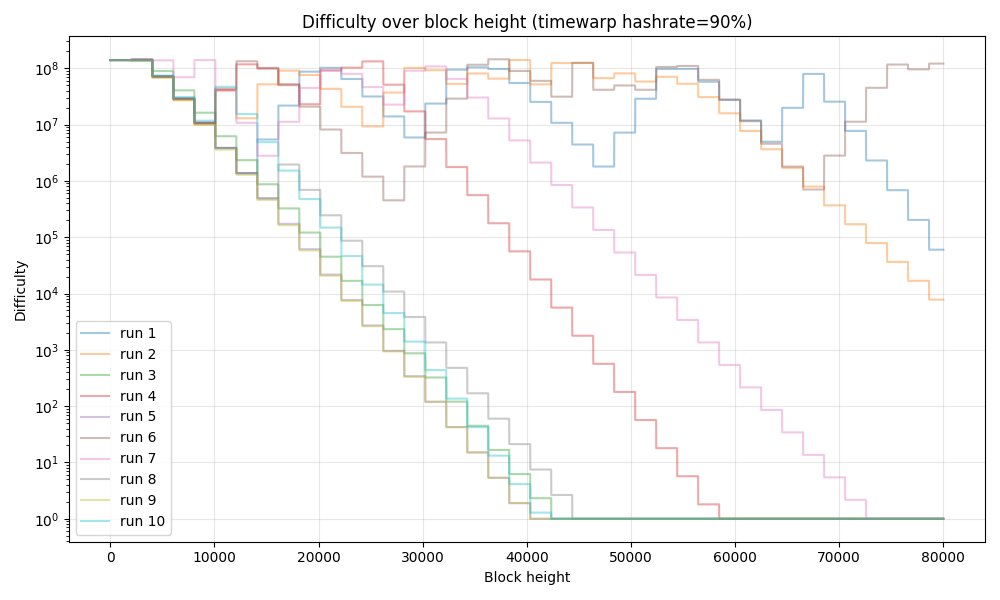
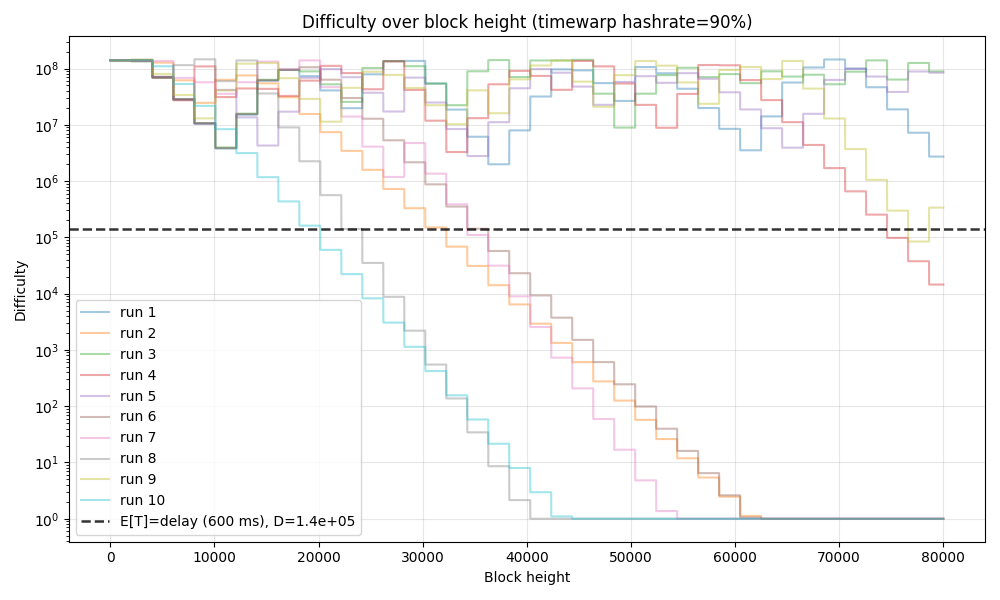
update results

diff --git a/experiments/timewarp_attack_scenarios/scripts/plot_timewarp_scenarios.py b/experiments/timewarp_attack_scenarios/scripts/plot_timewarp_scenarios.py
@@ -10,6 +10,15 @@ import matplotlib.pyplot as plt
 import numpy as np
 import pandas as pd
 
+DEFAULT_NETWORK_DELAY_MS = 600
+DEFAULT_SCENARIO_FILES = [
+    "honest.csv",
+    "selfish_timewarp.csv",
+    "timewarp85.csv",
+    "timewarp90.csv",
+    "timewarp100.csv",
+]
+
 
 def parse_inputs(
     raw_inputs: Iterable[str] | None, base_dir: Path
@@ -21,20 +30,9 @@ def parse_inputs(
     if not raw_inputs:
         results_dir = base_dir / "results"
         profiles_dir = base_dir / "profiles"
-        default_files = [
-            "honest.csv",
-            "selfish_timewarp.csv",
-            # "timewarp50.csv",
-            # "timewarp60.csv",
-            # "timewarp70.csv",
-            # "timewarp80.csv",
-            "timewarp85.csv",
-            "timewarp90.csv",
-            # "timewarp95.csv",
-            "timewarp100.csv",
-        ]
         parsed_defaults: List[Tuple[str, Path]] = []
-        for filename in default_files:
+        # run_timewarp_scenarios.py の run_full() で生成する系列と順序を揃える。
+        for filename in DEFAULT_SCENARIO_FILES:
             csv_path = results_dir / filename
             profile_path = profiles_dir / f"{Path(filename).stem}.json"
             label = _label_from_profile(profile_path, fallback_label=Path(filename).stem)
@@ -125,6 +123,33 @@ def load_series(label: str, csv_path: Path) -> Tuple[pd.Series, pd.Series, pd.Se
         df["mining_time"].rolling(window=1000, min_periods=1).mean() / 60000.0
     )
     return df["round"], df["difficulty"], mining_time_avg_min
+
+
+def _load_total_hashrate(profile_path: Path) -> float | None:
+    if not profile_path.exists():
+        return None
+    try:
+        with profile_path.open("r", encoding="utf-8") as f:
+            profile = json.load(f)
+    except Exception:
+        return None
+    nodes = profile.get("nodes")
+    if not isinstance(nodes, list):
+        return None
+    total = 0.0
+    for node in nodes:
+        if not isinstance(node, dict):
+            continue
+        hashrate = node.get("hashrate")
+        if isinstance(hashrate, (int, float)):
+            total += float(hashrate)
+    return total if total > 0 else None
+
+
+def _target_difficulty_for_delay(delay_ms: int, total_hashrate: float) -> float:
+    # Bitcoin model: E[mining_time] = difficulty * 2^32 / hashrate
+    # E[mining_time] = delay_ms を満たす difficulty。
+    return delay_ms * total_hashrate / (2**32)
 
 
 def _fit_trendline(
@@ -238,6 +263,8 @@ def _find_descending_step_segments(
 
 def plot_difficulty(
     datasets: Iterable[Tuple[str, Path]],
+    profiles_dir: Path,
+    delay_ms: int,
     output_path: Path | None,
     show: bool,
     log_y: bool,
@@ -250,6 +277,7 @@ def plot_difficulty(
     min_descending_steps: int,
     epoch_len: int,
 ) -> None:
+    datasets = list(datasets)
     fig, ax = plt.subplots(figsize=(10, 6))
     ax2 = ax.twinx() if show_mining_time else None
 
@@ -258,11 +286,29 @@ def plot_difficulty(
         .by_key()
         .get("color", ["C0"])
     )
+    # 先頭系列に依存せず、読める profile が1つでもあれば基準線を描く。
+    threshold_drawn = False
+    for _label, csv_path in datasets:
+        profile_path = profiles_dir / f"{csv_path.stem}.json"
+        total_hashrate = _load_total_hashrate(profile_path)
+        if total_hashrate is not None:
+            target_difficulty = _target_difficulty_for_delay(delay_ms, total_hashrate)
+            ax.axhline(
+                target_difficulty,
+                linestyle="--",
+                linewidth=1.8,
+                color="black",
+                alpha=0.8,
+                label=f"E[T]=delay ({delay_ms} ms), D={target_difficulty:.3g}",
+            )
+            threshold_drawn = True
+            break
 
     for label, csv_path in datasets:
         x, difficulty, mining_time = load_series(label, csv_path)
         color = next(colors)
         ax.plot(x, difficulty, label=label, color=color)
+
         if show_regression:
             use_log = regression_log_y if regression_log_y is not None else log_y
             if regression_mode == "global":
@@ -343,6 +389,8 @@ def plot_difficulty(
                 linestyle="--",
                 alpha=0.35,
             )
+    if not threshold_drawn:
+        print("[warn] 基準線用の profile を読めなかったため、E[T]=delay 線は描画されませんでした。")
 
     ax.set_xlabel("Block height")
     ax.set_ylabel("Difficulty")
@@ -389,6 +437,12 @@ def build_parser() -> argparse.ArgumentParser:
         "--show",
         action="store_true",
         help="プロットを画面表示する場合に指定します。",
+    )
+    parser.add_argument(
+        "--delay",
+        type=int,
+        default=DEFAULT_NETWORK_DELAY_MS,
+        help="ネットワーク遅延 [ms]。E[T]=delay となる難易度の基準線描画に使用（デフォルト: 600）。",
     )
     parser.add_argument(
         "--log-y",
@@ -466,6 +520,8 @@ def main() -> None:
 
     plot_difficulty(
         datasets,
+        profiles_dir=base_dir / "profiles",
+        delay_ms=args.delay,
         output_path=output_path,
         show=args.show,
         log_y=args.log_y,

diff --git a/experiments/timewarp_fix_hashrate/scripts/run_fixed_hashrate_experiments.py b/experiments/timewarp_fix_hashrate/scripts/run_fixed_hashrate_experiments.py
@@ -23,6 +23,7 @@ from experiments.utils import (
 )
 
 TOTAL_HASHRATE = 1_000_000_000_000
+DEFAULT_NETWORK_DELAY_MS = 600
 
 
 def ensure_profile(attacker_hashrate: int, base_dir: Path) -> Path:
@@ -119,6 +120,7 @@ def load_difficulty_series(csv_path: Path) -> tuple[pd.Series, pd.Series]:
 def plot_runs(
     csv_paths: List[Path],
     attacker_hashrate: int,
+    delay_ms: int,
     output_path: Path | None,
     show: bool,
     log_y: bool,
@@ -133,6 +135,19 @@ def plot_runs(
             label=f"run {i}",
             alpha=0.4,
         )
+
+    # E[mining_time] = delay を満たす基準難易度 (Bitcoin model):
+    # E[mining_time] = difficulty * 2^32 / hashrate
+    # => difficulty = delay_ms * hashrate / 2^32
+    target_difficulty = delay_ms * TOTAL_HASHRATE / (2**32)
+    ax.axhline(
+        target_difficulty,
+        linestyle="--",
+        linewidth=1.8,
+        color="black",
+        alpha=0.8,
+        label=f"E[T]=delay ({delay_ms} ms), D={target_difficulty:.3g}",
+    )
 
     ax.set_xlabel("Block height")
     ax.set_ylabel("Difficulty")
@@ -274,10 +289,12 @@ def main() -> None:
     output_path = args.output or default_output
 
     log_y = not args.linear_y
+    effective_delay_ms = args.delay if args.delay is not None else DEFAULT_NETWORK_DELAY_MS
 
     plot_runs(
         csv_paths=csv_paths,
         attacker_hashrate=attacker_hashrate,
+        delay_ms=effective_delay_ms,
         output_path=output_path,
         show=args.show,
         log_y=log_y,
